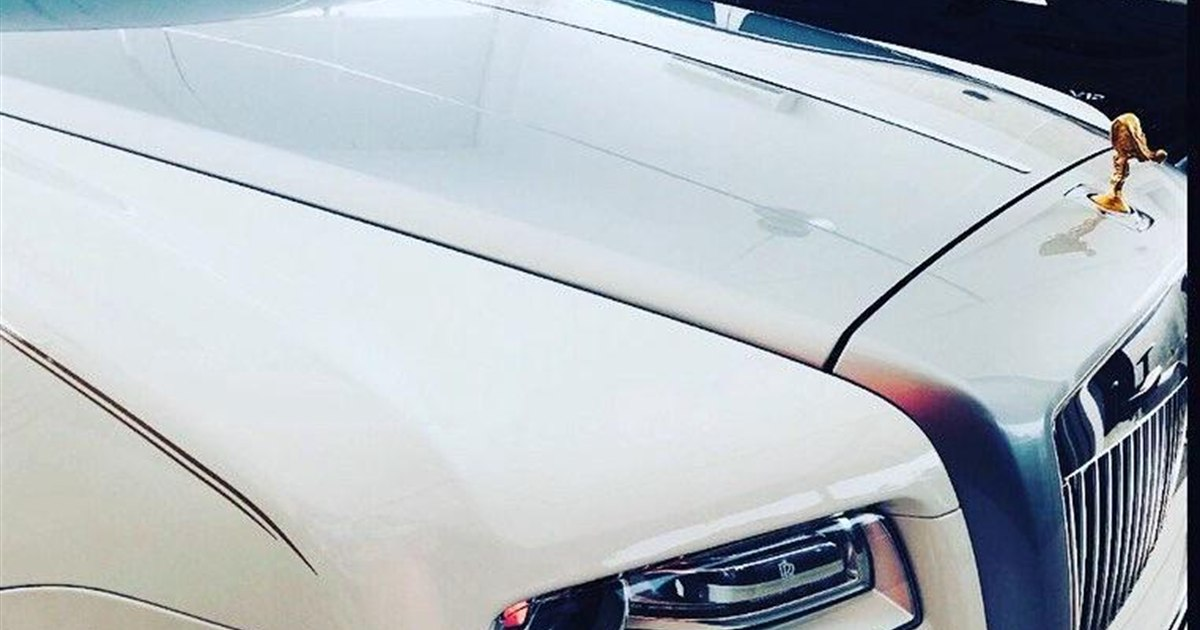
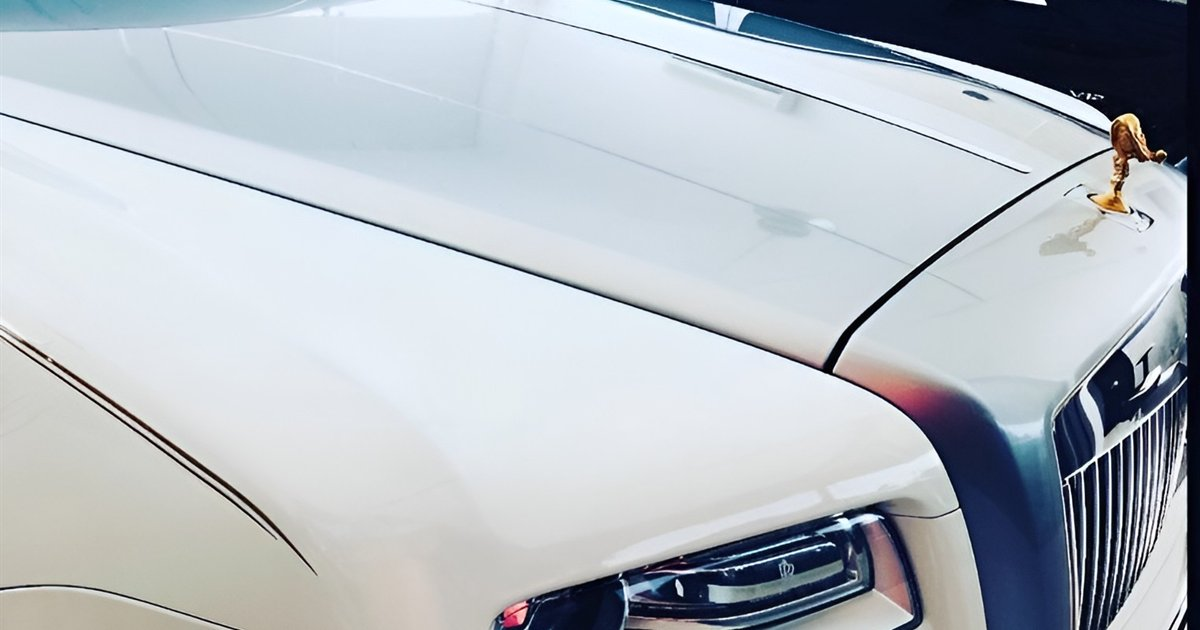
upscalling

diff --git a/seo-plugin.ts b/seo-plugin.ts
@@ -16,7 +16,7 @@ const OG_IMAGE_PATH = "/og-image.jpg";
 const OG_IMAGE_WIDTH = 1200;
 const OG_IMAGE_HEIGHT = 630;
 const LOGO_PATH = "/assets/logo-mark.png";
-const HERO_IMAGE = "/assets/WhatsApp Image 2026-11-08 at 20.06.51.jpeg";
+const HERO_IMAGE = "/assets/WhatsApp Image 2026-11-08 at 20.06.51 (1).jpeg";
 
 export function seoPlugin({ siteUrl, buildDate }: SeoPluginOptions): Plugin {
   const SITE_URL = siteUrl.replace(/\/+$/, "");

diff --git a/src/components/sections/Hero.tsx b/src/components/sections/Hero.tsx
@@ -27,8 +27,8 @@ export function Hero() {
         <img
           src={heroImage}
           alt={t.hero.imageAlt}
-          width={762}
-          height={567}
+          width={1524}
+          height={1134}
           loading="eager"
           fetchPriority="high"
           decoding="async"

diff --git a/src/data/media.ts b/src/data/media.ts
@@ -37,7 +37,7 @@ export const media: {
   gallery: ImageItem[];
   videos: VideoItem[];
 } = {
-  hero: "WhatsApp Image 2026-11-08 at 20.06.51.jpeg",
+  hero: "WhatsApp Image 2026-11-08 at 20.06.51 (1).jpeg",
   portfolio: [
     {
       file: "WhatsApp Image 2026-11-08 at 20.06.53.jpeg",
